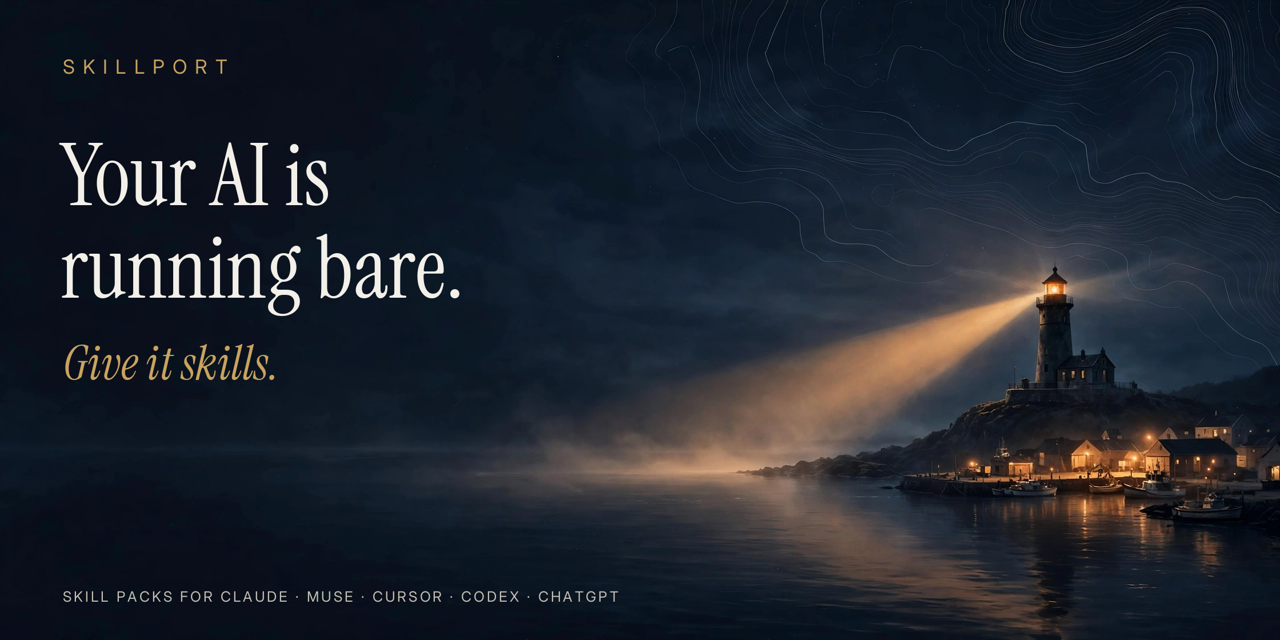
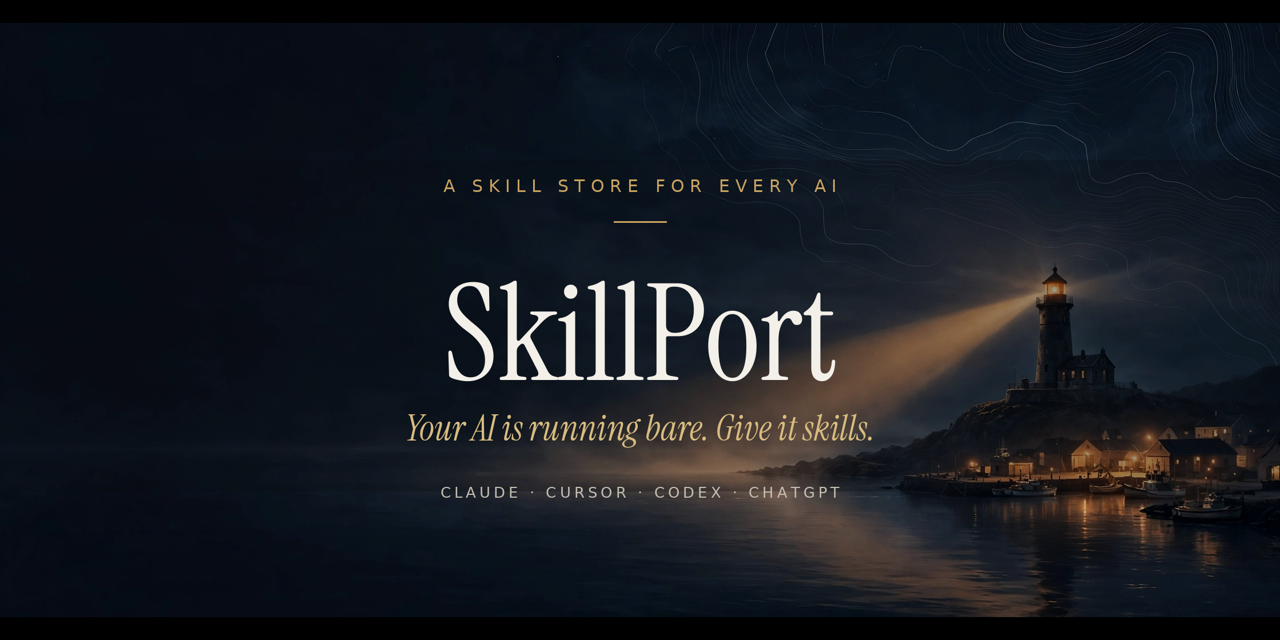
v0.2.6: drop the duplicate Muse target, designed README header

diff --git a/make_masthead.py b/make_masthead.py
@@ -26,6 +26,6 @@ tracked(268, "A SKILL STORE FOR EVERY AI", f(SANS, 30), (201, 163, 95), 10)
 d.line([(W/2 - 46, 348), (W/2 + 46, 348)], fill=(201, 163, 95), width=3)
 centered(392, "SkillPort", f(SERIF, 235), (243, 240, 233))
 centered(668, "Your AI is running bare. Give it skills.", f(SERIFI, 62), (216, 188, 128))
-tracked(806, "CLAUDE · MUSE · CURSOR · CODEX · CHATGPT", f(SANS, 26), (196, 190, 178), 6)
+tracked(806, "CLAUDE · CURSOR · CODEX · CHATGPT", f(SANS, 26), (196, 190, 178), 6)
 img.save(os.path.join(A, "masthead.png"))
 print("masthead.png", img.size)

diff --git a/packs/human-touch-pack/README.md b/packs/human-touch-pack/README.md
@@ -16,9 +16,9 @@ One line, in your terminal:
 curl -fsSL https://raw.githubusercontent.com/Dongdarealest/skillport/main/install.sh | bash -s -- human-touch-pack claude
 ```
 
-Swap the last word for your AI: `claude`, `muse`, `cursor` or `codex`. On Windows, use `install.ps1` from the repo root the same way. For ChatGPT, download the ZIP above and paste the files in `for-chatgpt/` into your custom GPT or project instructions. Using Claude on the web instead? Zip any single skill folder inside `for-claude/` and upload it under Settings, Skills.
+Swap the last word for your AI: `claude`, `cursor` or `codex`. On Windows, use `install.ps1` from the repo root the same way. For ChatGPT, download the ZIP above and paste the files in `for-chatgpt/` into your custom GPT or project instructions. Using Claude on the web instead? Zip any single skill folder inside `for-claude/` and upload it under Settings, Skills.
 
-By hand instead? Open the folder for your AI (`for-claude`, `for-muse`, `for-cursor`, `for-codex`, `for-chatgpt`) and copy its contents where your AI keeps its skills or rules. The pack README in the repo explains each target in one line.
+By hand instead? Open the folder for your AI (`for-claude`, `for-cursor`, `for-codex`, `for-chatgpt`) and copy its contents where your AI keeps its skills or rules. The pack README in the repo explains each target in one line.
 
 ## License
 

diff --git a/packs/writing-pack/README.md b/packs/writing-pack/README.md
@@ -16,9 +16,9 @@ One line, in your terminal:
 curl -fsSL https://raw.githubusercontent.com/Dongdarealest/skillport/main/install.sh | bash -s -- writing-pack claude
 ```
 
-Swap the last word for your AI: `claude`, `muse`, `cursor` or `codex`. On Windows, use `install.ps1` from the repo root the same way. For ChatGPT, download the ZIP above and paste the files in `for-chatgpt/` into your custom GPT or project instructions. Using Claude on the web instead? Zip any single skill folder inside `for-claude/` and upload it under Settings, Skills.
+Swap the last word for your AI: `claude`, `cursor` or `codex`. On Windows, use `install.ps1` from the repo root the same way. For ChatGPT, download the ZIP above and paste the files in `for-chatgpt/` into your custom GPT or project instructions. Using Claude on the web instead? Zip any single skill folder inside `for-claude/` and upload it under Settings, Skills.
 
-By hand instead? Open the folder for your AI (`for-claude`, `for-muse`, `for-cursor`, `for-codex`, `for-chatgpt`) and copy its contents where your AI keeps its skills or rules. The pack README in the repo explains each target in one line.
+By hand instead? Open the folder for your AI (`for-claude`, `for-cursor`, `for-codex`, `for-chatgpt`) and copy its contents where your AI keeps its skills or rules. The pack README in the repo explains each target in one line.
 
 ## License
 

diff --git a/packs/coding-pack/README.md b/packs/coding-pack/README.md
@@ -16,9 +16,9 @@ One line, in your terminal:
 curl -fsSL https://raw.githubusercontent.com/Dongdarealest/skillport/main/install.sh | bash -s -- coding-pack claude
 ```
 
-Swap the last word for your AI: `claude`, `muse`, `cursor` or `codex`. On Windows, use `install.ps1` from the repo root the same way. For ChatGPT, download the ZIP above and paste the files in `for-chatgpt/` into your custom GPT or project instructions. Using Claude on the web instead? Zip any single skill folder inside `for-claude/` and upload it under Settings, Skills.
+Swap the last word for your AI: `claude`, `cursor` or `codex`. On Windows, use `install.ps1` from the repo root the same way. For ChatGPT, download the ZIP above and paste the files in `for-chatgpt/` into your custom GPT or project instructions. Using Claude on the web instead? Zip any single skill folder inside `for-claude/` and upload it under Settings, Skills.
 
-By hand instead? Open the folder for your AI (`for-claude`, `for-muse`, `for-cursor`, `for-codex`, `for-chatgpt`) and copy its contents where your AI keeps its skills or rules. The pack README in the repo explains each target in one line.
+By hand instead? Open the folder for your AI (`for-claude`, `for-cursor`, `for-codex`, `for-chatgpt`) and copy its contents where your AI keeps its skills or rules. The pack README in the repo explains each target in one line.
 
 ## License
 

diff --git a/packs/design-pack/README.md b/packs/design-pack/README.md
@@ -16,9 +16,9 @@ One line, in your terminal:
 curl -fsSL https://raw.githubusercontent.com/Dongdarealest/skillport/main/install.sh | bash -s -- design-pack claude
 ```
 
-Swap the last word for your AI: `claude`, `muse`, `cursor` or `codex`. On Windows, use `install.ps1` from the repo root the same way. For ChatGPT, download the ZIP above and paste the files in `for-chatgpt/` into your custom GPT or project instructions. Using Claude on the web instead? Zip any single skill folder inside `for-claude/` and upload it under Settings, Skills.
+Swap the last word for your AI: `claude`, `cursor` or `codex`. On Windows, use `install.ps1` from the repo root the same way. For ChatGPT, download the ZIP above and paste the files in `for-chatgpt/` into your custom GPT or project instructions. Using Claude on the web instead? Zip any single skill folder inside `for-claude/` and upload it under Settings, Skills.
 
-By hand instead? Open the folder for your AI (`for-claude`, `for-muse`, `for-cursor`, `for-codex`, `for-chatgpt`) and copy its contents where your AI keeps its skills or rules. The pack README in the repo explains each target in one line.
+By hand instead? Open the folder for your AI (`for-claude`, `for-cursor`, `for-codex`, `for-chatgpt`) and copy its contents where your AI keeps its skills or rules. The pack README in the repo explains each target in one line.
 
 ## License
 

diff --git a/README.md b/README.md
@@ -2,7 +2,7 @@
 
 ![SkillPort: a quiet port at night, a lighthouse beam over the water](assets/banner.png)
 
-![Release](https://img.shields.io/badge/release-v0.2.4-C9A35F) ![License](https://img.shields.io/badge/license-MIT-C9A35F) ![Platforms](https://img.shields.io/badge/platforms-Claude%20%C2%B7%20Muse%20%C2%B7%20Cursor%20%C2%B7%20Codex%20%C2%B7%20ChatGPT-C9A35F) ![Skills](https://img.shields.io/badge/skills-12-C9A35F)
+![Release](https://img.shields.io/badge/release-v0.2.4-C9A35F) ![License](https://img.shields.io/badge/license-MIT-C9A35F) ![Platforms](https://img.shields.io/badge/platforms-Claude%20%C2%B7%20Cursor%20%C2%B7%20Codex%20%C2%B7%20ChatGPT-C9A35F) ![Skills](https://img.shields.io/badge/skills-12-C9A35F)
 
 **Your AI is running bare. Give it skills.**
 
@@ -56,12 +56,6 @@ curl -fsSL https://raw.githubusercontent.com/Dongdarealest/skillport/main/instal
 ```
 
 On Windows, `install.ps1` from this repo does the same job in PowerShell. Using Claude on the web instead? Zip any single skill folder inside a pack's `for-claude/` folder and upload it under Settings, Skills.
-
-### Muse
-
-```bash
-curl -fsSL https://raw.githubusercontent.com/Dongdarealest/skillport/main/install.sh | bash -s -- human-touch-pack muse
-```
 
 ### Cursor
 

diff --git a/RELEASE-NOTES.md b/RELEASE-NOTES.md
@@ -51,3 +51,8 @@ A README that looks designed, not typed.
 - Badges restyled flat and dark to match the house palette, centered as one row.
 - The contents list is gone; a single centered nav row does its job.
 - The catalog is now tables, one per pack.
+
+## v0.2.6 · 2026-11-22
+
+- The Muse target is removed from the packs. Its package was a duplicate of the Claude one, and a store should not ship placeholders. The converter still supports the format for anyone who needs it.
+- Designed masthead and social image updated to the four real targets: Claude, Cursor, Codex, ChatGPT.
